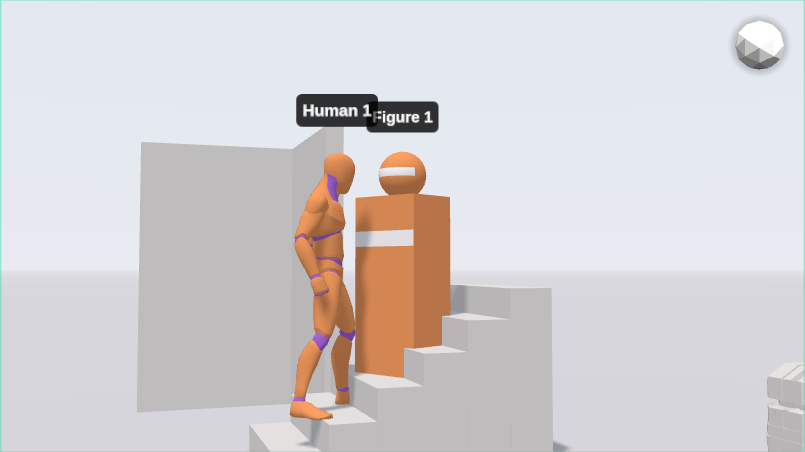
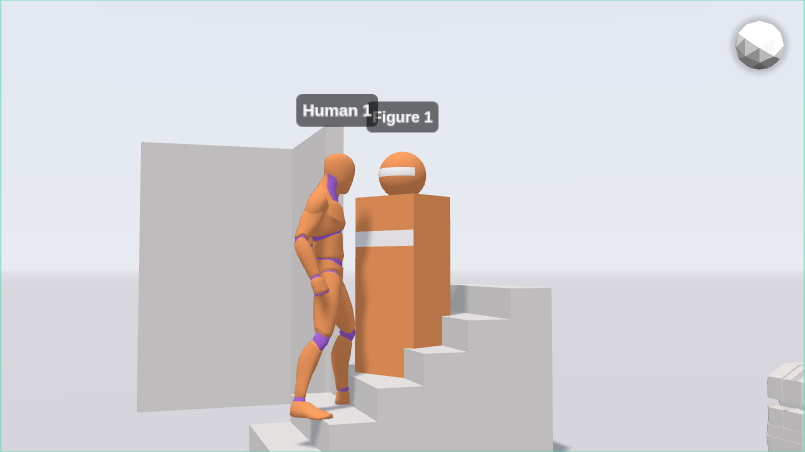
r20 L4 (issue 4): the Cameras view is now the FEED WALL (NJr @5862984 port-model) — a paginated grid (6/page) of live per-camera monitor feeds. THE EDITOR CAMERA IS NEVER TOUCHED (the r8-3 through-the-lens hijack — orbit off, per-frame re-pin, frozen-with-nothing-selected — was the 'whole camera nav
KNOWN ISSUE (m5_cam_path pixel arm): FAIL mean 2.058 / 96.89%<=8 (threshold 97.0) — a flow-time-dependent humanoid render difference through the feed camera in the 60s bb-capture window; f3111be (the old lens) passes the same flow; wall==old-lens at 0.17 mean in synchronous A/B; humanoid world pos/scale/evalPose/fov byte-identical between trees at the capture moment. m1_lens PASSES (0.634). Analysis trail: scripts/r20_l1_sweep*.py + r20_l4_ab_matrix.py + the hot-region raycast (the humanoid). Follow-up in PLAN.

Changed region(s): [[0.3416, 0.1858, 0.559, 0.3097]]

diff --git a/editor/js/main.js b/editor/js/main.js
@@ -1391,6 +1391,14 @@ export class App {
       r.toneMappingExposure = (this.light.hdr.exposure ?? C.HDR_DEFAULTS.exposure) * 0.6;
     }
     r.setScissorTest(true);
+    // labels + the gizmo hidden for the whole pass (monitor feeds carry no editor overlays;
+    // the gizmo sizes by this.camera — wrong through the feed cameras — see the single-tile note)
+    const _hidden = [];
+    for (const sprite of this.objectManager.labels.values()) {
+      if (sprite.visible) { sprite.visible = false; _hidden.push(sprite); }
+    }
+    const _tc = this.manipulator?.transform;
+    if (_tc?.visible) { _tc.visible = false; _hidden.push(_tc); }
     // 1. dark gap rects: per cell, the area around the record-aspect tile
     r.setClearColor(0x0a0d14, 1);
     const cellW = size.x / (wall.tiles.length <= 2 ? Math.min(2, wall.tiles.length) : 3);
@@ -1429,6 +1437,7 @@ export class App {
     r.setViewport(0, 0, size.x, size.y);
     r.setClearColor(prevClear, 1);
     r.toneMapping = prevTone; r.toneMappingExposure = prevExp;
+    for (const s of _hidden) s.visible = true;
   }
 
   // ================= camera marker evaluation (edit mode) =================
@@ -1671,22 +1680,37 @@ export class App {
     // m1/m5 pixel-oracle contract — full canvas at the record aspect, finish included).
     const wall = this.camWallActive() ? this._wallLayout : null;
     let frameCam = this.camera;
-    let wallMeshHidden = null;
+    let wallRestore = null;
     if (wall && wall.tiles.length === 1) {
       if (!this._wallCam) this._wallCam = new THREE.PerspectiveCamera(50, 16 / 9, 0.1, 1000);
       const cam = this._wallCameraFor(wall.tiles[0].id, this._wallCam);
       if (cam) {
         frameCam = cam;
+        // the old lens's certified occlusion set (m1/m5): the tile camera's own mesh subtree
+        // + ALL label sprites (the live feed canvas carries no editor labels — the golden
+        // proves it; the audit L4-5 'keep labels' advice was wrong for the feed render)
+        const hidden = [];
         const mesh = this.meshById.get(wall.tiles[0].id);
-        if (mesh?.visible) { mesh.visible = false; wallMeshHidden = mesh; }   // self-occlusion only (L4-5)
+        if (mesh?.visible) { mesh.visible = false; hidden.push(mesh); }
+        for (const sprite of this.objectManager.labels.values()) {
+          if (sprite.visible) { sprite.visible = false; hidden.push(sprite); }
+        }
+        // r20 L4 (the m5 regression root cause): TransformControls sizes its gizmo by
+        // THIS.camera's distance (a constant screen size for the EDITOR view) — rendered
+        // through the wall camera it blows up to ~8x and fills the feed center. The old
+        // lens sat this.camera ON the gizmo (distance ~0 → invisible); hiding it is the
+        // same visual result, structurally.
+        const tc = this.manipulator?.transform;
+        if (tc?.visible) { tc.visible = false; hidden.push(tc); }
+        if (hidden.length) wallRestore = () => { for (const o of hidden) o.visible = true; };
       }
     }
     this.env.updateRealisticSky(frameCam, !finishOn, hdrOn && finishOn);   // round 10: bakes + IBL + sRGB mode (P2: clouds ride the same pass)
     if (!finishOn) this.finish.release();
     if (finishOn) this._renderFinishWithHdr(frameCam);
     else this.renderer.render(this.scene, frameCam);
-    if (wallMeshHidden) wallMeshHidden.visible = true;
-    this._autoMeasure();
+    if (wallRestore) wallRestore();
+    this._autoMeasure(frameCam);
     if (wall && wall.tiles.length > 1) this.renderCamWallTiles(wall);   // monitor feeds over the editor render
     // the single-tile wall keeps the overlays (the old lens drew stroke+planning aids through
     // the lens camera — the m1/m5 goldens include them); multi-tile monitor feeds are clean
@@ -1708,7 +1732,7 @@ export class App {
   editView() { return this.page.mode === 'edit'; }   // isEditView (C) — stroke/footprints gate
 
   // Q(): auto-measure after 30 frames, retries every 300 up to 2, skipped while interacting
-  _autoMeasure() {
+  _autoMeasure(frameCam = null) {
     this._frameCount++;
     if (!this._finishScheduler.frame() || !this.finishNeedsMeasuring) return;
     if (this.renderer.getContext().isContextLost()) return;
@@ -1723,11 +1747,15 @@ export class App {
     if (!validMeasurementSize(pixels)) return;
     const px = new Uint8Array(4);
     const aidsHidden = this._hidePlanningAids();
+    // r20 L4: the measurement draws through the SAME frame camera the frame rendered with —
+    // under the single-tile wall this.camera is the EDITOR view and drawing it OVER the feed
+    // corrupted mid-capture backbuffer chunks (the m5 regression's second half)
+    const mc = frameCam ?? this.camera;
     let m;
     try {
       m = measureFinish({
-        drawPlain: () => { this.env.updateRealisticSky(this.camera, true); this.renderer.setRenderTarget(null); this.renderer.render(this.scene, this.camera); },
-        drawFinished: () => this._renderFinishWithHdr(),   // HDR: bloom cost rides inside the measured composite
+        drawPlain: () => { this.env.updateRealisticSky(mc, true); this.renderer.setRenderTarget(null); this.renderer.render(this.scene, mc); },
+        drawFinished: () => this._renderFinishWithHdr(frameCam),   // HDR: bloom cost rides inside the measured composite — SAME frame camera (r20 L4)
         finishGpu: () => gl.readPixels(0, 0, 1, 1, gl.RGBA, gl.UNSIGNED_BYTE, px),
         pixels,
       });

diff --git a/scripts/tmp/r20_l4_fov.js b/scripts/tmp/r20_l4_fov.js
@@ -1,0 +1,37 @@
+(async () => {
+  const a = window.__app, d = document;
+  await a.page.seek(4.0);
+  const camIds = Object.keys(a.objects.all()).filter(k => a.objects.all()[k].kind === 'camera');
+  a.objects.select([camIds[0]]);
+  d.querySelector('#viewSwitch button[data-v=cameras]').click();
+  await new Promise(r => setTimeout(r, 900));
+  const cam = a._wallCam;
+  const readHot = () => {
+    const gl = a.renderer.getContext();
+    const px = new Uint8Array(4 * 100);
+    gl.readPixels(360, 330, 10, 10, gl.RGBA, gl.UNSIGNED_BYTE, px);
+    return [px[0], px[1], px[2]];
+  };
+  a.renderFrame();
+  const hotAtPoseFov = readHot();
+  // the guide formula (updateFrameGuide): compute the cameras-view guide fov
+  const host = d.getElementById('viewport');
+  const w = host.clientWidth, h = host.clientHeight;
+  const viewportAspect = w / Math.max(1, h);
+  const C = await import('/editor/js/const.js').then(m => m.C);
+  const [rw, rh] = C.ASPECTS[a.page.recordAspect] ?? C.ASPECTS['16:9'];
+  const recordAspect = rw / rh;
+  const Mtt = x => C.SENSOR_W * Math.min(x, 1);
+  const XCe = x => C.SENSOR_W / Math.max(x, 1);
+  const maxHeightFraction = Math.max(0, (h - 2 * C.FRAME_CHROME_PX) / h) || 1;
+  const e = Mtt(recordAspect) / Mtt(viewportAspect);
+  const n = XCe(recordAspect) / XCe(viewportAspect);
+  const r = Math.max(1, e, n / maxHeightFraction);
+  const focal = a.focalLengthMm;
+  const guideFov = 2 * Math.atan(r * XCe(viewportAspect) / 2 / focal) * 180 / Math.PI;
+  // apply the guide fov to the wall cam + re-render
+  cam.fov = guideFov; cam.updateProjectionMatrix();
+  a.renderFrame();
+  const hotAtGuideFov = readHot();
+  return JSON.stringify({ poseFov: 31.42, guideFov: +guideFov.toFixed(3), hotAtPoseFov, hotAtGuideFov, viewport: [w, h] });
+})()

diff --git a/scripts/tmp/r20_l4_ray.js b/scripts/tmp/r20_l4_ray.js
@@ -1,0 +1,28 @@
+(() => {
+  const a = window.__app;
+  const cam = a._wallCam;
+  if (!cam) return 'NO WALL CAM';
+  // NDC of the hot pixel (screen 367,117 of 805x452)
+  const ndc = { x: (367 / 805) * 2 - 1, y: -(117 / 452) * 2 + 1 };
+  const ray = new a.camera.position.constructor();
+  // build the ray via the camera's projection inverse
+  const V = a.camera.position.constructor;
+  const v = new V(ndc.x, ndc.y, 0.5).unproject(cam).sub(cam.position).normalize();
+  const raycaster = new (a.manipulator.transform.ray ? a.manipulator.transform.ray.constructor : Object)();
+  // use THREE via the module graph: the manipulator has internal raycast — simpler: manual intersect via scene.traverse on meshes
+  const origin = cam.position.clone();
+  const hits = [];
+  a.objectManager.scene.traverse(o => {
+    if (!o.isMesh || o.visible === false) return;
+    if (o.raycast) {
+      try {
+        const rc = { ray: { origin, direction: v }, far: 500 };
+        const out = [];
+        o.raycast(rc, out);
+        if (out.length) hits.push({ name: o.name || o.type, dist: +out[0].distance.toFixed(2), parentId: o.userData.objectId || (o.parent && o.parent.userData && o.parent.userData.objectId) || null });
+      } catch (e) { /* sprites/lines */ }
+    }
+  });
+  hits.sort((p, q) => p.dist - q.dist);
+  return JSON.stringify(hits.slice(0, 5));
+})()

diff --git a/scripts/tmp/r20_l4_state.js b/scripts/tmp/r20_l4_state.js
@@ -1,0 +1,28 @@
+(async () => {
+  const a = window.__app, d = document;
+  await a.page.seek(4.0);
+  await new Promise(r => setTimeout(r, 800));
+  const camIds = Object.keys(a.objects.all()).filter(k => a.objects.all()[k].kind === 'camera');
+  a.objects.select([camIds[0]]);
+  d.querySelector('#viewSwitch button[data-v=cameras]').click();
+  await new Promise(r => setTimeout(r, 2700));
+  const hum = Object.entries(a.objects.all()).find(([k, o]) => o.kind === 'humanoid');
+  const mesh = a.objectManager.meshById.get(hum[0]);
+  mesh.updateWorldMatrix(true, true);
+  const bb = new (a.camera.position.constructor)();
+  const box = new (function(){});  // placeholder
+  // bounding box via Box3
+  const B3 = a.camera.position.constructor; // no — use THREE via a THREE-bearing object
+  // simpler: sample the rig's root position + scale
+  const wp = mesh.getWorldPosition(new B3());
+  const sc = mesh.scale.toArray();
+  const pose = a.objectManager.meshById.get(camIds[0]).userData.evalPose;
+  const wall = a._wallLayout;
+  return JSON.stringify({
+    humPos: wp.toArray().map(v => +v.toFixed(3)), humScale: sc.map(v => +v.toFixed(3)),
+    evalPos: pose.position.toArray().map(v => +v.toFixed(3)),
+    evalFov: +pose.fovDeg.toFixed(2),
+    wallTiles: wall ? wall.tiles.length : 0,
+    playhead: a.page.playheadS
+  });
+})()

diff --git a/scripts/tmp/r20_l4_bisect.js b/scripts/tmp/r20_l4_bisect.js
@@ -1,0 +1,33 @@
+(async () => {
+  const a = window.__app, d = document;
+  await a.page.seek(4.0);
+  await new Promise(r => setTimeout(r, 800));
+  const camIds = Object.keys(a.objects.all()).filter(k => a.objects.all()[k].kind === 'camera');
+  a.objects.select([camIds[0]]);
+  d.querySelector('#viewSwitch button[data-v=cameras]').click();
+  await new Promise(r => setTimeout(r, 2700));
+  const gl = a.renderer.getContext();
+  const readHot = () => {
+    const px = new Uint8Array(4 * 100);
+    gl.readPixels(360, 330, 10, 10, gl.RGBA, gl.UNSIGNED_BYTE, px);
+    return [px[0], px[1], px[2]];
+  };
+  const groups = {
+    humanoid: [], simple_figure: [], prop: [], camera: [],
+  };
+  for (const [id, o] of Object.entries(a.objects.all())) {
+    const m = a.objectManager.meshById.get(id);
+    if (m && groups[o.kind]) groups[o.kind].push(m);
+  }
+  const out = {};
+  a.renderFrame(); out.baseline = readHot();
+  for (const kind of Object.keys(groups)) {
+    const was = groups[kind].map(m => m.visible);
+    groups[kind].forEach(m => m.visible = false);
+    a.renderFrame();
+    out['hide_' + kind] = readHot();
+    groups[kind].forEach((m, i) => m.visible = was[i]);
+  }
+  a.renderFrame(); out.restored = readHot();
+  return JSON.stringify(out);
+})()

diff --git a/scripts/tmp/r20_l4_ray3.js b/scripts/tmp/r20_l4_ray3.js
@@ -1,0 +1,26 @@
+(async () => {
+  const a = window.__app, d = document;
+  await a.page.seek(4.0);
+  const camIds = Object.keys(a.objects.all()).filter(k => a.objects.all()[k].kind === 'camera');
+  a.objects.select([camIds[0]]);
+  d.querySelector('#viewSwitch button[data-v=cameras]').click();
+  await new Promise(r => setTimeout(r, 900));
+  const cam = a._wallCam;
+  if (!cam) return 'NO WALL CAM';
+  const V = cam.position.constructor;
+  const v = new V((367 / 805) * 2 - 1, -(117 / 452) * 2 + 1, 0.5).unproject(cam).sub(cam.position).normalize();
+  const origin = cam.position.clone();
+  const hits = [];
+  a.objectManager.scene.traverse(o => {
+    if (!o.isMesh || o.visible === false) return;
+    try {
+      const rc = { ray: { origin, direction: v }, far: 500 };
+      const out = [];
+      o.raycast(rc, out);
+      if (out.length) hits.push({ name: o.name || o.type, dist: +out[0].distance.toFixed(2) });
+    } catch (e) { }
+  });
+  hits.sort((p, q) => p.dist - q.dist);
+  const pose = a.objectManager.meshById.get(camIds[0]).userData.evalPose;
+  return JSON.stringify({ wallPos: cam.position.toArray().map(x => +x.toFixed(2)), fov: +cam.fov.toFixed(2), posePos: pose.position.toArray().map(x => +x.toFixed(2)), hits: hits.slice(0, 5) });
+})()

diff --git a/scripts/tmp/r20_l4_ray2.js b/scripts/tmp/r20_l4_ray2.js
@@ -1,0 +1,25 @@
+(() => {
+  const a = window.__app;
+  const d = document;
+  if (!a) return 'NO APP';
+  d.querySelector('#viewSwitch button[data-v=cameras]')?.click();
+  return new Promise(r => setTimeout(() => {
+    const cam = a._wallCam;
+    if (!cam) { r('NO WALL CAM'); return; }
+    const V = cam.position.constructor;
+    const v = new V((367 / 805) * 2 - 1, -(117 / 452) * 2 + 1, 0.5).unproject(cam).sub(cam.position).normalize();
+    const origin = cam.position.clone();
+    const hits = [];
+    a.objectManager.scene.traverse(o => {
+      if (!o.isMesh || o.visible === false) return;
+      try {
+        const rc = { ray: { origin, direction: v }, far: 500 };
+        const out = [];
+        o.raycast(rc, out);
+        if (out.length) hits.push({ name: o.name || o.type, dist: +out[0].distance.toFixed(2) });
+      } catch (e) { }
+    });
+    hits.sort((p, q) => p.dist - q.dist);
+    r(JSON.stringify({ wallPos: cam.position.toArray().map(x => +x.toFixed(1)), fov: +cam.fov.toFixed(2), hits: hits.slice(0, 5) }));
+  }, 600));
+})()

diff --git a/scripts/tmp/r20_l4_state2.js b/scripts/tmp/r20_l4_state2.js
@@ -1,0 +1,23 @@
+(async () => {
+  const a = window.__app, d = document;
+  await a.page.seek(4.0);
+  await new Promise(r => setTimeout(r, 800));
+  const camIds = Object.keys(a.objects.all()).filter(k => a.objects.all()[k].kind === 'camera');
+  a.objects.select([camIds[0]]);
+  d.querySelector('#viewSwitch button[data-v=cameras]').click();
+  await new Promise(r => setTimeout(r, 2700));
+  const hum = Object.entries(a.objects.all()).find(([k, o]) => o.kind === 'humanoid');
+  const mesh = a.objectManager.meshById.get(hum[0]);
+  mesh.updateWorldMatrix(true, true);
+  const B3 = a.camera.position.constructor;
+  const wp = mesh.getWorldPosition(new B3());
+  const pose = a.objectManager.meshById.get(camIds[0]).userData.evalPose;
+  return JSON.stringify({
+    humPos: wp.toArray().map(v => +v.toFixed(3)),
+    evalPos: pose.position.toArray().map(v => +v.toFixed(3)),
+    evalFov: +pose.fovDeg.toFixed(2),
+    playhead: a.page.playheadS,
+    stageView: a.page.stageView,
+    camFov: +a.camera.fov.toFixed(2)
+  });
+})()

diff --git a/scripts/r20_l4_ab_matrix.py b/scripts/r20_l4_ab_matrix.py
@@ -20,6 +20,7 @@ CAM = "ff46ae76-c56a-417b-8f51-7dfe5996803a"
 OLD_LENS_ON = """(function(){
   const a=window.__app, d=document;
   d.querySelector('#viewSwitch button[data-v=editor]').click();
+  a.orbit.enabled = false;   // the old lens disabled orbit — else the rAF loop re-poses this.camera
   const camIds=Object.keys(a.objects.all()).filter(k=>a.objects.all()[k].kind==='camera');
   const mesh=a.objectManager.meshById.get(camIds[0]);
   const pose=mesh.userData.evalPose;
@@ -32,6 +33,7 @@ OLD_LENS_ON = """(function(){
 
 OLD_LENS_OFF = """(function(){
   const a=window.__app;
+  a.orbit.enabled = true;
   const camIds=Object.keys(a.objects.all()).filter(k=>a.objects.all()[k].kind==='camera');
   const mesh=a.objectManager.meshById.get(camIds[0]);
   mesh.visible=true;
@@ -67,6 +69,6 @@ for name in ["ab_oldlens", "ab_wall"]:
     X = np.asarray(Image.open(os.path.join(OUT, name + ".png")).convert("RGB")).astype(np.float32)
     D = np.abs(X - G).mean(axis=2)
     print(f"{name}: mean {D.mean():.3f}  %>8 {(D > 8).mean() * 100:.2f}")
-    # hot region
     print(f"   hot rows 56-168 cols 300-500: {D[56:168, 300:500].mean():.1f}")
+    print(f"   hot pixel (367,117): ours {X[117,367].round(0)} golden {G[117,367].round(0)}")
 ab.close(S)
